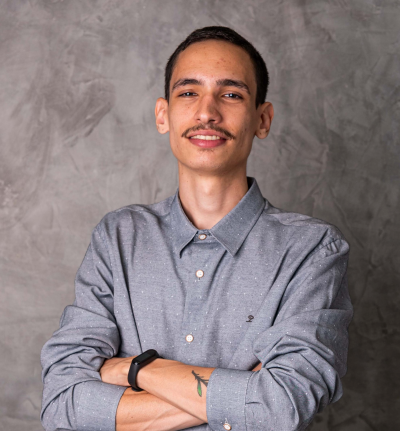
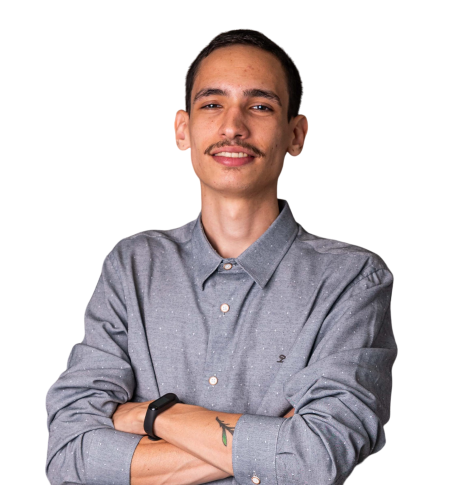
inserção de responsividade

diff --git a/styles/style.css b/styles/style.css
@@ -3,9 +3,6 @@
 @import url('https://fonts.googleapis.com/css2?family=Montserrat:wght@600&display=swap');
 
 :root {
-    /* --cor-primaria: #232324;
-    --cor-secundaria: #FDFFFC;
-    --cor-terciaria: #06AED5; */
     --cor-primaria: #354649;
     --cor-secundaria: #E0E7E9;
     --cor-terciaria: #A3C6C4;
@@ -27,7 +24,7 @@ body {
 }
 
 .cabecalho {
-    padding: 2% 0 0 15%;
+    padding: 2% 0 0 7%;
 }
 
 .cabecalho__menu {
@@ -38,27 +35,46 @@ body {
 .cabecalho__menu__link {
     font-family: var(--fonte-secundaria);
     font-weight: 600;
-    font-size: 18px;
+    font-size: 1.12rem;
     color: var(--cor-terciaria);
     text-decoration: none;
+    position: relative;
+}
+
+.cabecalho__menu__link::before {
+    content: "";
+    position: absolute;
+    top: 0;
+    left: 0;
+    width: 100%;
+    height: 0;
+    z-index: -1;
+    background-color: var(--cor-primaria);
+    transition: height .25s linear;
+}
+
+.cabecalho__menu__link:hover::before {
+    height: 100%;
 }
 
 .apresentacao {
-    padding: 7% 15%;
+    padding: 7% 7%;
     display: flex;
     align-items: center;
     justify-content: space-between;
+    gap: 82px;
 }
 
+
 .apresentacao__conteudo {
-    width: 615px;
+    width: 50%;
     display: flex;
     flex-direction: column;
     gap: 40px;
 }
 
 .apresentacao__conteudo__titulo {
-    font-size: 36px;
+    font-size: 2.25rem;
     font-family: var(--fonte-primaria);
 }
 
@@ -67,7 +83,7 @@ body {
 }
 
 .apresentacao__conteudo__texto {
-    font-size: 24px;
+    font-size: 1.5rem;
     font-family: var(--fonte-secundaria);
 }
 
@@ -82,19 +98,19 @@ body {
 .apresentacao__links__subtitulo {
     font-family: var(--fonte-primaria);
     font-weight: 400;
-    font-size: 18px;
+    font-size: 1.12rem;
 }
 
-.apresentacao__links__link {
+.apresentacao__links__redes {
     display: flex;
     justify-content: center;
     gap: 16px;
     text-align: center;
     border: 1px solid var(--cor-terciaria);
     border-radius: 8px;
-    font-size: 24px;
+    font-size: 1.5rem;
     padding: 21.5px 0;
-    width: 378px;
+    width: 50%;
     text-decoration: none;
     color: var(--cor-secundaria);
     font-family: var(--fonte-secundaria);
@@ -107,11 +123,9 @@ body {
     opacity: 0.7;
 }
 
-.imagem-capa {
+.apresentacao__imagem {
     filter: grayscale(0.95);
-    border-radius: 8px;
-    max-width: 593;
-    width: auto;
+    width: 35%;
 }
 
 .rodape {
@@ -120,6 +134,20 @@ body {
     padding: 24px;
     text-align: center;
     font-family: var(--fonte-secundaria);
-    font-size: 18px;
+    font-size: 1.12rem;
     font-weight: 400;
+}
+
+@media (max-width: 1000px) {
+    .cabecalho {
+        padding: 10%;
+    }
+
+    .cabecalho__menu {
+        justify-content: center;
+    }
+    
+    .apresentacao {
+        flex-direction: column-reverse;
+    }
 }

diff --git a/about.html b/about.html
@@ -22,7 +22,7 @@
             <p class="apresentacao__conteudo__texto">Desenvolvedor Front-end de Brasília-DF, se especializando em tecnologias web. Tenho 29 anos e sou bacharel em Administração pela Universidade de Brasília - UnB. Busco me especializar em desenvolvimento para migração de área profissional e fazer parte desse grande e excitante mercado!</p>
             <p class="apresentacao__conteudo__texto">Durante minha trajetória na universidade, fiz parte do movimento empresa júnior, passando por consultor de projetos, fazendo parte de projetos de plano de marketing, planejamento estratégico e viabilidade econômica-financeira. Ainda dentro da empreja júnior do curso de administração, fui analista de inovação, trabalhando na migração digital da escola de consultoria no qual buscamos universalizar o acesso aos nossos conteúdos e criar um produto que pudesse ser vendido para outras EJs e empresas de mercado que buscavam se aprofundar nos temas de consultoria. Hoje sou analista de inteligência comercial e trabalho com projetos voltados à motivação, ações de vendas e gestão do time de vendas, por meio de OKRs e indicadores chaves.</p>
         </section>
-        <img class="imagem-capa" src="./assets/eu.png" alt="Foto do Emanuel Teixeira de braços cruzados e sorrindo">
+        <img class="apresentacao__imagem" src="./assets/eu.png" alt="Foto do Emanuel Teixeira de braços cruzados e sorrindo">
     </main>
 
     <footer class="rodape">

diff --git a/index.html b/index.html
@@ -22,17 +22,17 @@
             <p class="apresentacao__conteudo__texto">Olá! Sou Emanuel Teixeira, desenvolvedor Front-end em formação. Ajudo pequenos negócios e designers a colocarem em prática boas ideias. Vamos conversar?</p>
             <div class="apresentacao__links">
                 <h2 class="apresentacao__links__subtitulo">Acesse minhas redes:</h2>
-                <a class="apresentacao__links__link" href="https://www.linkedin.com/in/emanuelct/">
+                <a class="apresentacao__links__redes" href="https://www.linkedin.com/in/emanuelct/">
                     <img src="./assets/linkedin.png" alt="Logo LinkedIn">
                     LinkedIn
                 </a>
-                <a class="apresentacao__links__link" href="https://github.com/Emanuelmts">
+                <a class="apresentacao__links__redes" href="https://github.com/Emanuelmts">
                     <img src="./assets/github.png" alt="Logo Github">
                     Github
                 </a>
             </div>
         </section>
-        <img class="imagem-capa" src="./assets/eu.png" alt="Foto do Emanuel Teixeira de braços cruzados e sorrindo">
+        <img class="apresentacao__imagem" src="./assets/eu.png" alt="Foto do Emanuel Teixeira de braços cruzados e sorrindo">
     </main>
 
     <footer class="rodape">
